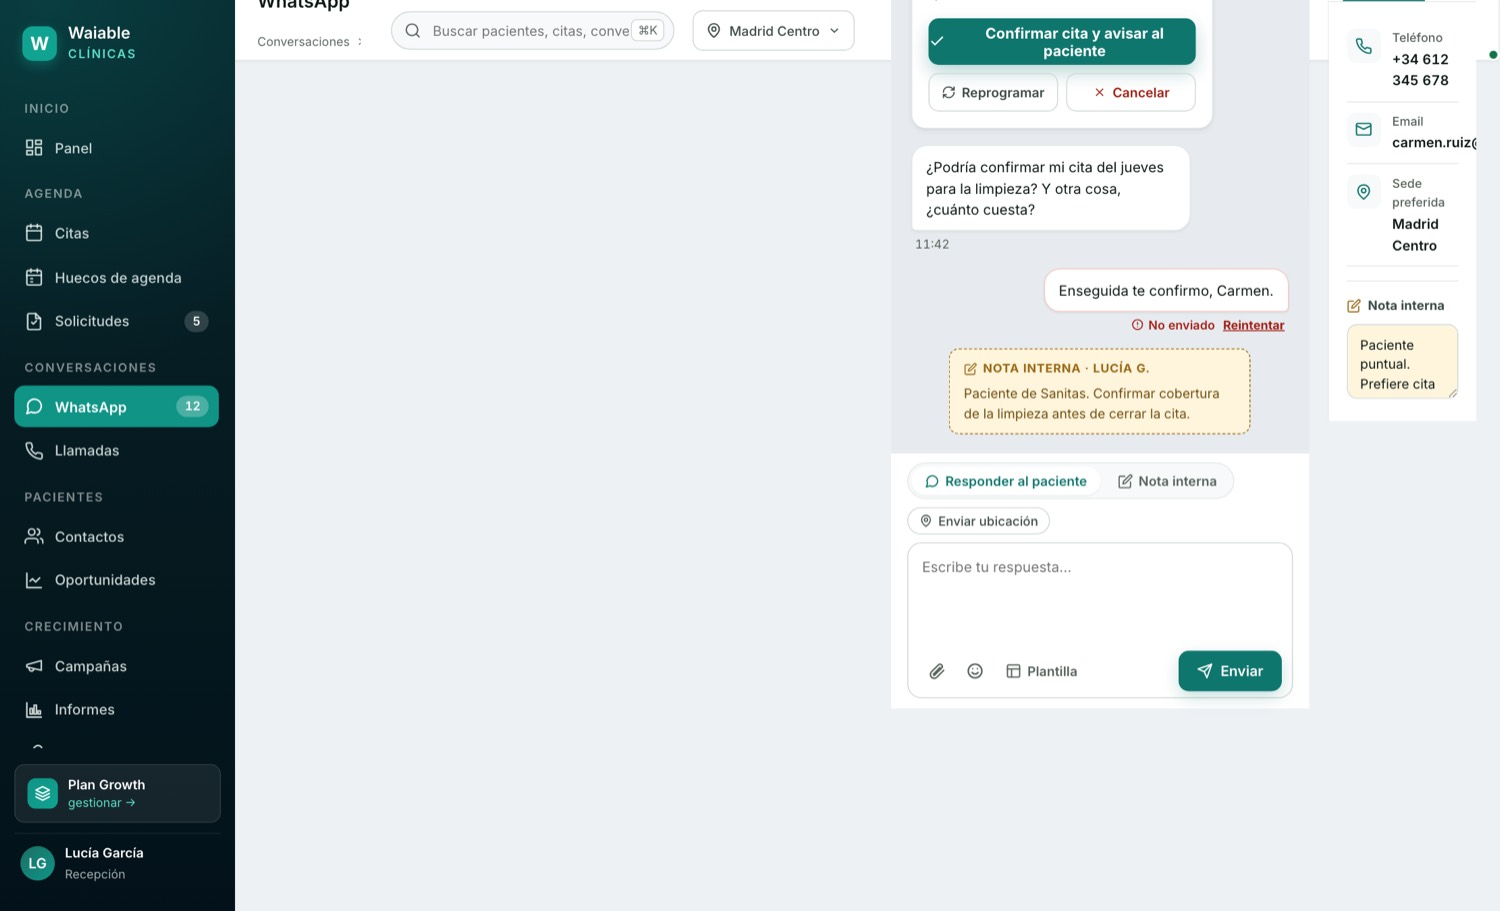
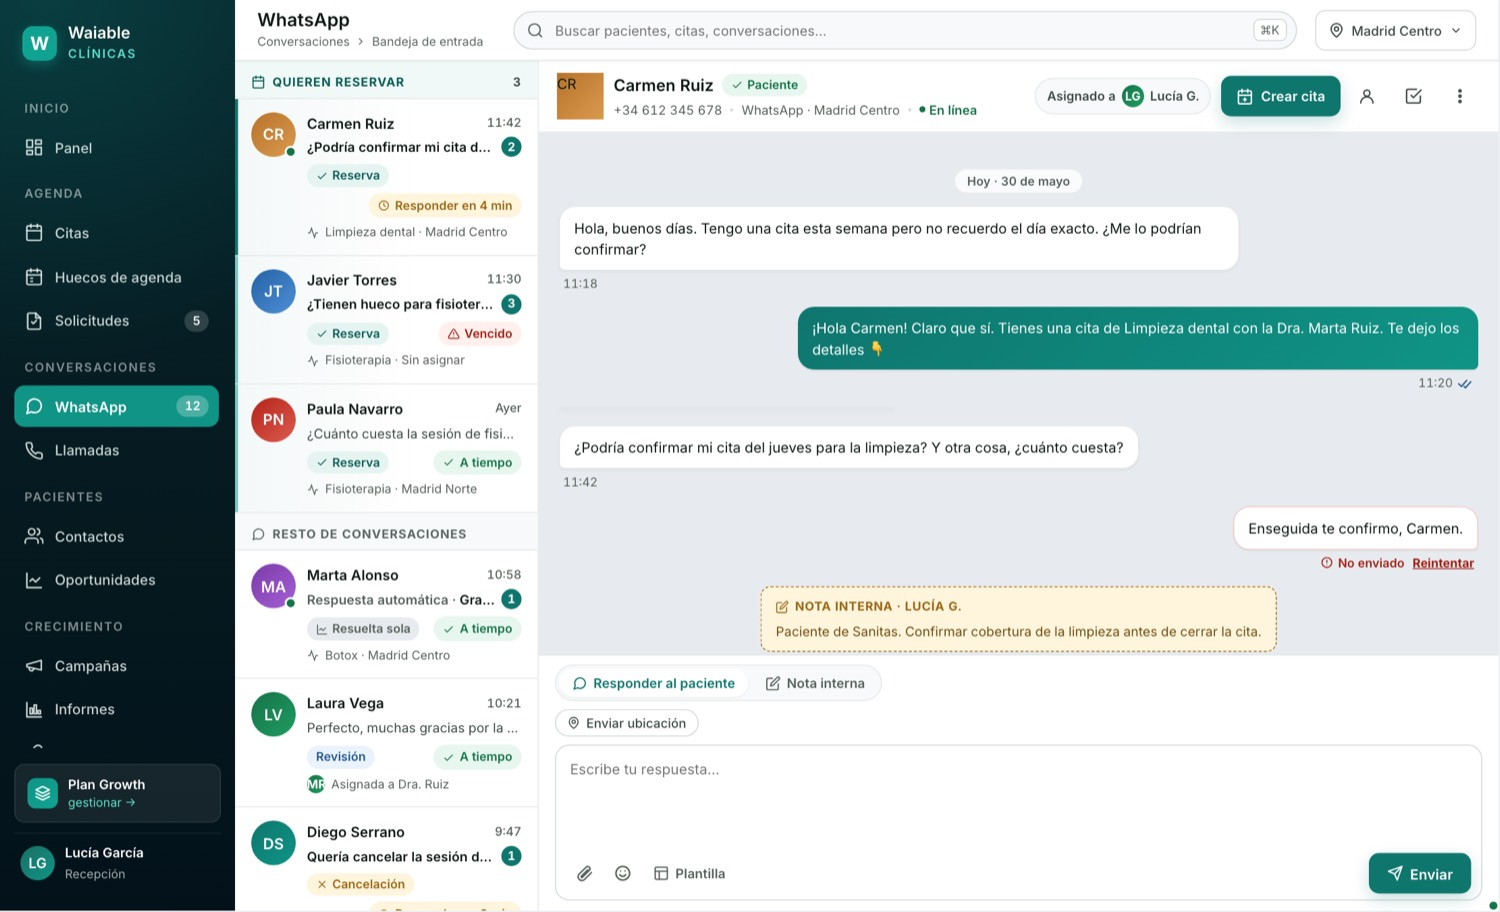
Inbox: cerrar header (arregla buscador a ancho completo 919px) + modal: periodo Personalizado y franja Todos

diff --git a/whatsapp/inbox.html b/whatsapp/inbox.html
@@ -543,7 +543,13 @@ a:focus-visible, button:focus-visible, input:focus-visible, textarea:focus-visib
           <svg width="14" height="14" viewBox="0 0 24 24" fill="none" stroke="currentColor" stroke-width="2"><path d="m6 9 6 6 6-6"/></svg>
         </button>
       </div>
+    </header>
 
+    <!-- INBOX (3 columnas) -->
+    <div class="inbox panel-collapsed" id="inboxGrid">
+
+      <!-- COL 1: lista de conversaciones -->
+      <section class="col-list">
         <div class="conv-scroll">
 
           <!-- SECCIÓN PRIORITARIA: lo que convierte (intención de reserva) -->
@@ -914,6 +920,7 @@ a:focus-visible, button:focus-visible, input:focus-visible, textarea:focus-visib
                 <button class="cm-cal-link" type="button" id="cmClear">Borrar</button>
                 <button class="cm-cal-link" type="button" id="cmToday">Hoy</button>
               </div>
+              <div class="cm-cal-hint" id="cmCalHint" style="display:none;font-size:12px;color:var(--primary-dark);margin-top:8px">Modo personalizado: elige la fecha inicial y luego la final.</div>
               <div class="cm-cal-periods" id="cmPeriods">
                 <button type="button" data-period="este-mes">Este mes</button>
                 <button type="button" data-period="prox-mes">Próximo mes</button>
@@ -921,6 +928,7 @@ a:focus-visible, button:focus-visible, input:focus-visible, textarea:focus-visib
                 <button type="button" data-period="prox-semana">Próxima semana</button>
                 <button type="button" data-period="hoy">Hoy</button>
                 <button type="button" data-period="manana">Mañana</button>
+                <button type="button" data-period="custom">Personalizado</button>
               </div>
             </div>
             <div class="cm-cal-summary" id="cmCalSummary">
@@ -1001,6 +1009,7 @@ document.querySelectorAll('[data-toast]').forEach(function(el){
   var range = null;       // {start:Date, end:Date}
   var franja = 'manana';  // mañana | mediodia | tarde
   var autoT = null;
+  var customMode=false; var customStart=null;
 
   // franjas configurables (leídas de localStorage, escritas por Ajustes>Agenda)
   function franjas(){
@@ -1036,6 +1045,13 @@ document.querySelectorAll('[data-toast]').forEach(function(el){
     grid.querySelectorAll('.cm-cal-day').forEach(function(el){
       el.addEventListener('click',function(){
         var p=el.dataset.d.split('-'); var d=new Date(+p[0],+p[1],+p[2]);
+        if(customMode){
+          if(!customStart){ customStart=d; setRange(d,d,'Personalizado'); }
+          else { var s=customStart<d?customStart:d, e=customStart<d?d:customStart; customStart=null; customMode=false;
+                 setRange(s,e,'Personalizado'); document.getElementById('cmCalHint') && (document.getElementById('cmCalHint').style.display='none');
+                 if(autoT) clearTimeout(autoT); autoT=setTimeout(function(){ document.getElementById('cmCal').style.display='none'; document.getElementById('cmCalSummary').classList.add('show'); cmSearch(); },1200); }
+          return;
+        }
         setRange(d,d,fmt(d));
       });
     });
@@ -1067,7 +1083,13 @@ document.querySelectorAll('[data-toast]').forEach(function(el){
       b.addEventListener('click',function(){
         document.querySelectorAll('#cmPeriods button').forEach(function(x){x.classList.remove('active')});
         b.classList.add('active');
-        var p=b.dataset.period; var r=periodRange(p);
+        var p=b.dataset.period;
+        if(p==='custom'){ customMode=true; customStart=null; range=null; renderCal();
+          var hint=document.getElementById('cmCalHint'); if(hint){hint.style.display='block';}
+          document.getElementById('cmCalSummaryText').textContent='Elige fecha inicial y final en el calendario';
+          if(autoT) clearTimeout(autoT); return; }
+        customMode=false;
+        var r=periodRange(p);
         setRange(r.start,r.end,rangeLabel(p));     // resalta el periodo
         if(autoT) clearTimeout(autoT);
         autoT=setTimeout(function(){                // a los 2s: aplica y cierra
@@ -1089,10 +1111,11 @@ document.querySelectorAll('[data-toast]').forEach(function(el){
 
   function renderFranjas(){
     var f=franjas(); var wrap=document.getElementById('cmFranjas'); if(!wrap) return;
-    var defs=[['manana','Mañana'],['mediodia','Mediodía'],['tarde','Tarde']];
+    var defs=[['todos','Todos'],['manana','Mañana'],['mediodia','Mediodía'],['tarde','Tarde']];
     wrap.innerHTML = defs.map(function(d){
-      var r=f[d[0]]; var on=(d[0]==franja)?' active':'';
-      return '<button type="button" class="cm-franja'+on+'" data-fr="'+d[0]+'"><b>'+d[1]+'</b><span>'+r[0]+'–'+r[1]+'</span></button>';
+      var on=(d[0]==franja)?' active':'';
+      var sub = d[0]=='todos' ? (f.manana[0]+'–'+f.tarde[1]) : (f[d[0]][0]+'–'+f[d[0]][1]);
+      return '<button type="button" class="cm-franja'+on+'" data-fr="'+d[0]+'"><b>'+d[1]+'</b><span>'+sub+'</span></button>';
     }).join('');
     wrap.querySelectorAll('.cm-franja').forEach(function(b){
       b.addEventListener('click',function(){ franja=b.dataset.fr; renderFranjas(); cmSearch(); });
@@ -1103,7 +1126,8 @@ document.querySelectorAll('[data-toast]').forEach(function(el){
   window.cmSearch = function(){
     var avail=document.getElementById('cmAvail'); avail.classList.add('show');
     renderFranjas();
-    var f=franjas()[franja]; var ini=f[0], fin=f[1];
+    var FR=franjas();
+    var tramos = (franja==='todos') ? [FR.manana,FR.mediodia,FR.tarde] : [FR[franja]];
     var sede=(document.getElementById('cmSede')||{}).value||'Sede principal';
     var slots=document.getElementById('cmSlots');
     if(!range){ slots.innerHTML='<div class="cm-empty">Elige un periodo en el calendario y pulsa “Buscar disponibilidad”.</div>'; return; }
@@ -1111,7 +1135,7 @@ document.querySelectorAll('[data-toast]').forEach(function(el){
     var days=[]; for(var d=new Date(range.start); d<=range.end && days.length<4; d=addD(d,1)){ if(d.getDay()!=0) days.push(new Date(d)); }
     var html='';
     days.forEach(function(day){
-      var t=ini;
+      tramos.forEach(function(tr){ var t=tr[0], fin=tr[1];
       while(t < fin){
         var end=timeAdd(t,45);
         PROS.forEach(function(pro){
@@ -1119,6 +1143,7 @@ document.querySelectorAll('[data-toast]').forEach(function(el){
         });
         t=timeAdd(t,45);
       }
+      }); // tramos
     });
     slots.innerHTML = html || '<div class="cm-empty">No hay huecos en esa franja para el periodo elegido.</div>';
     slots.querySelectorAll('.cm-slot').forEach(function(s){
